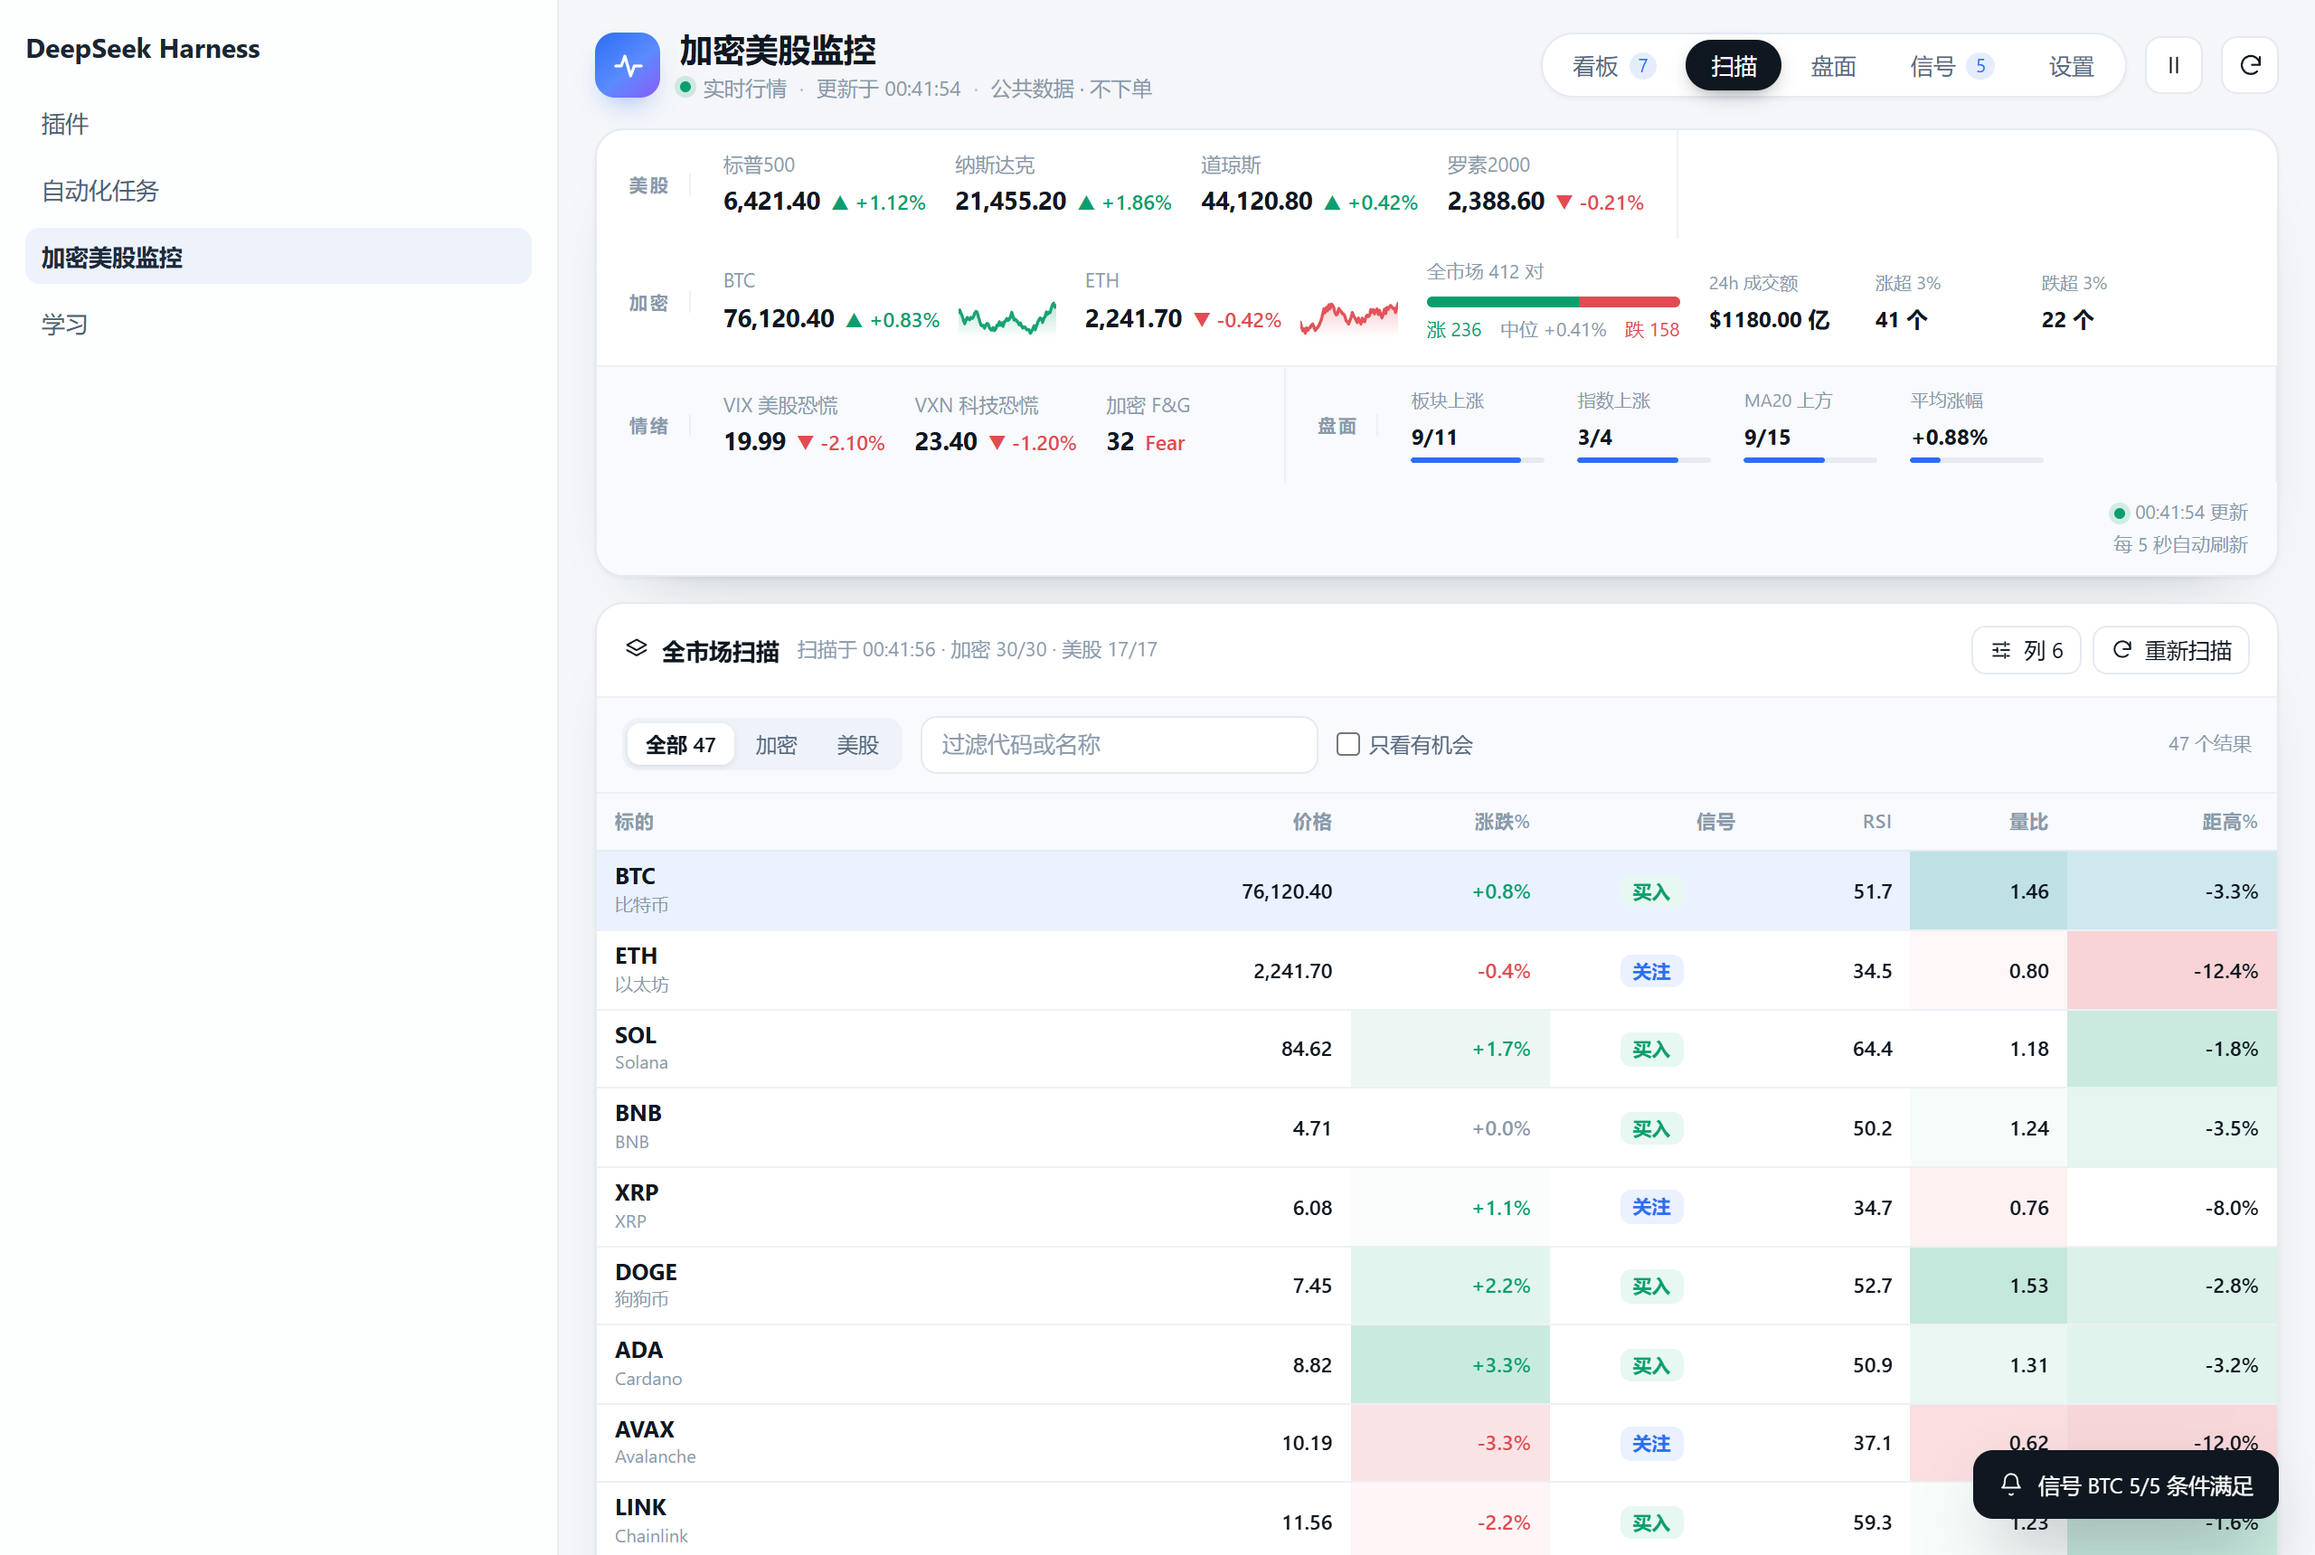
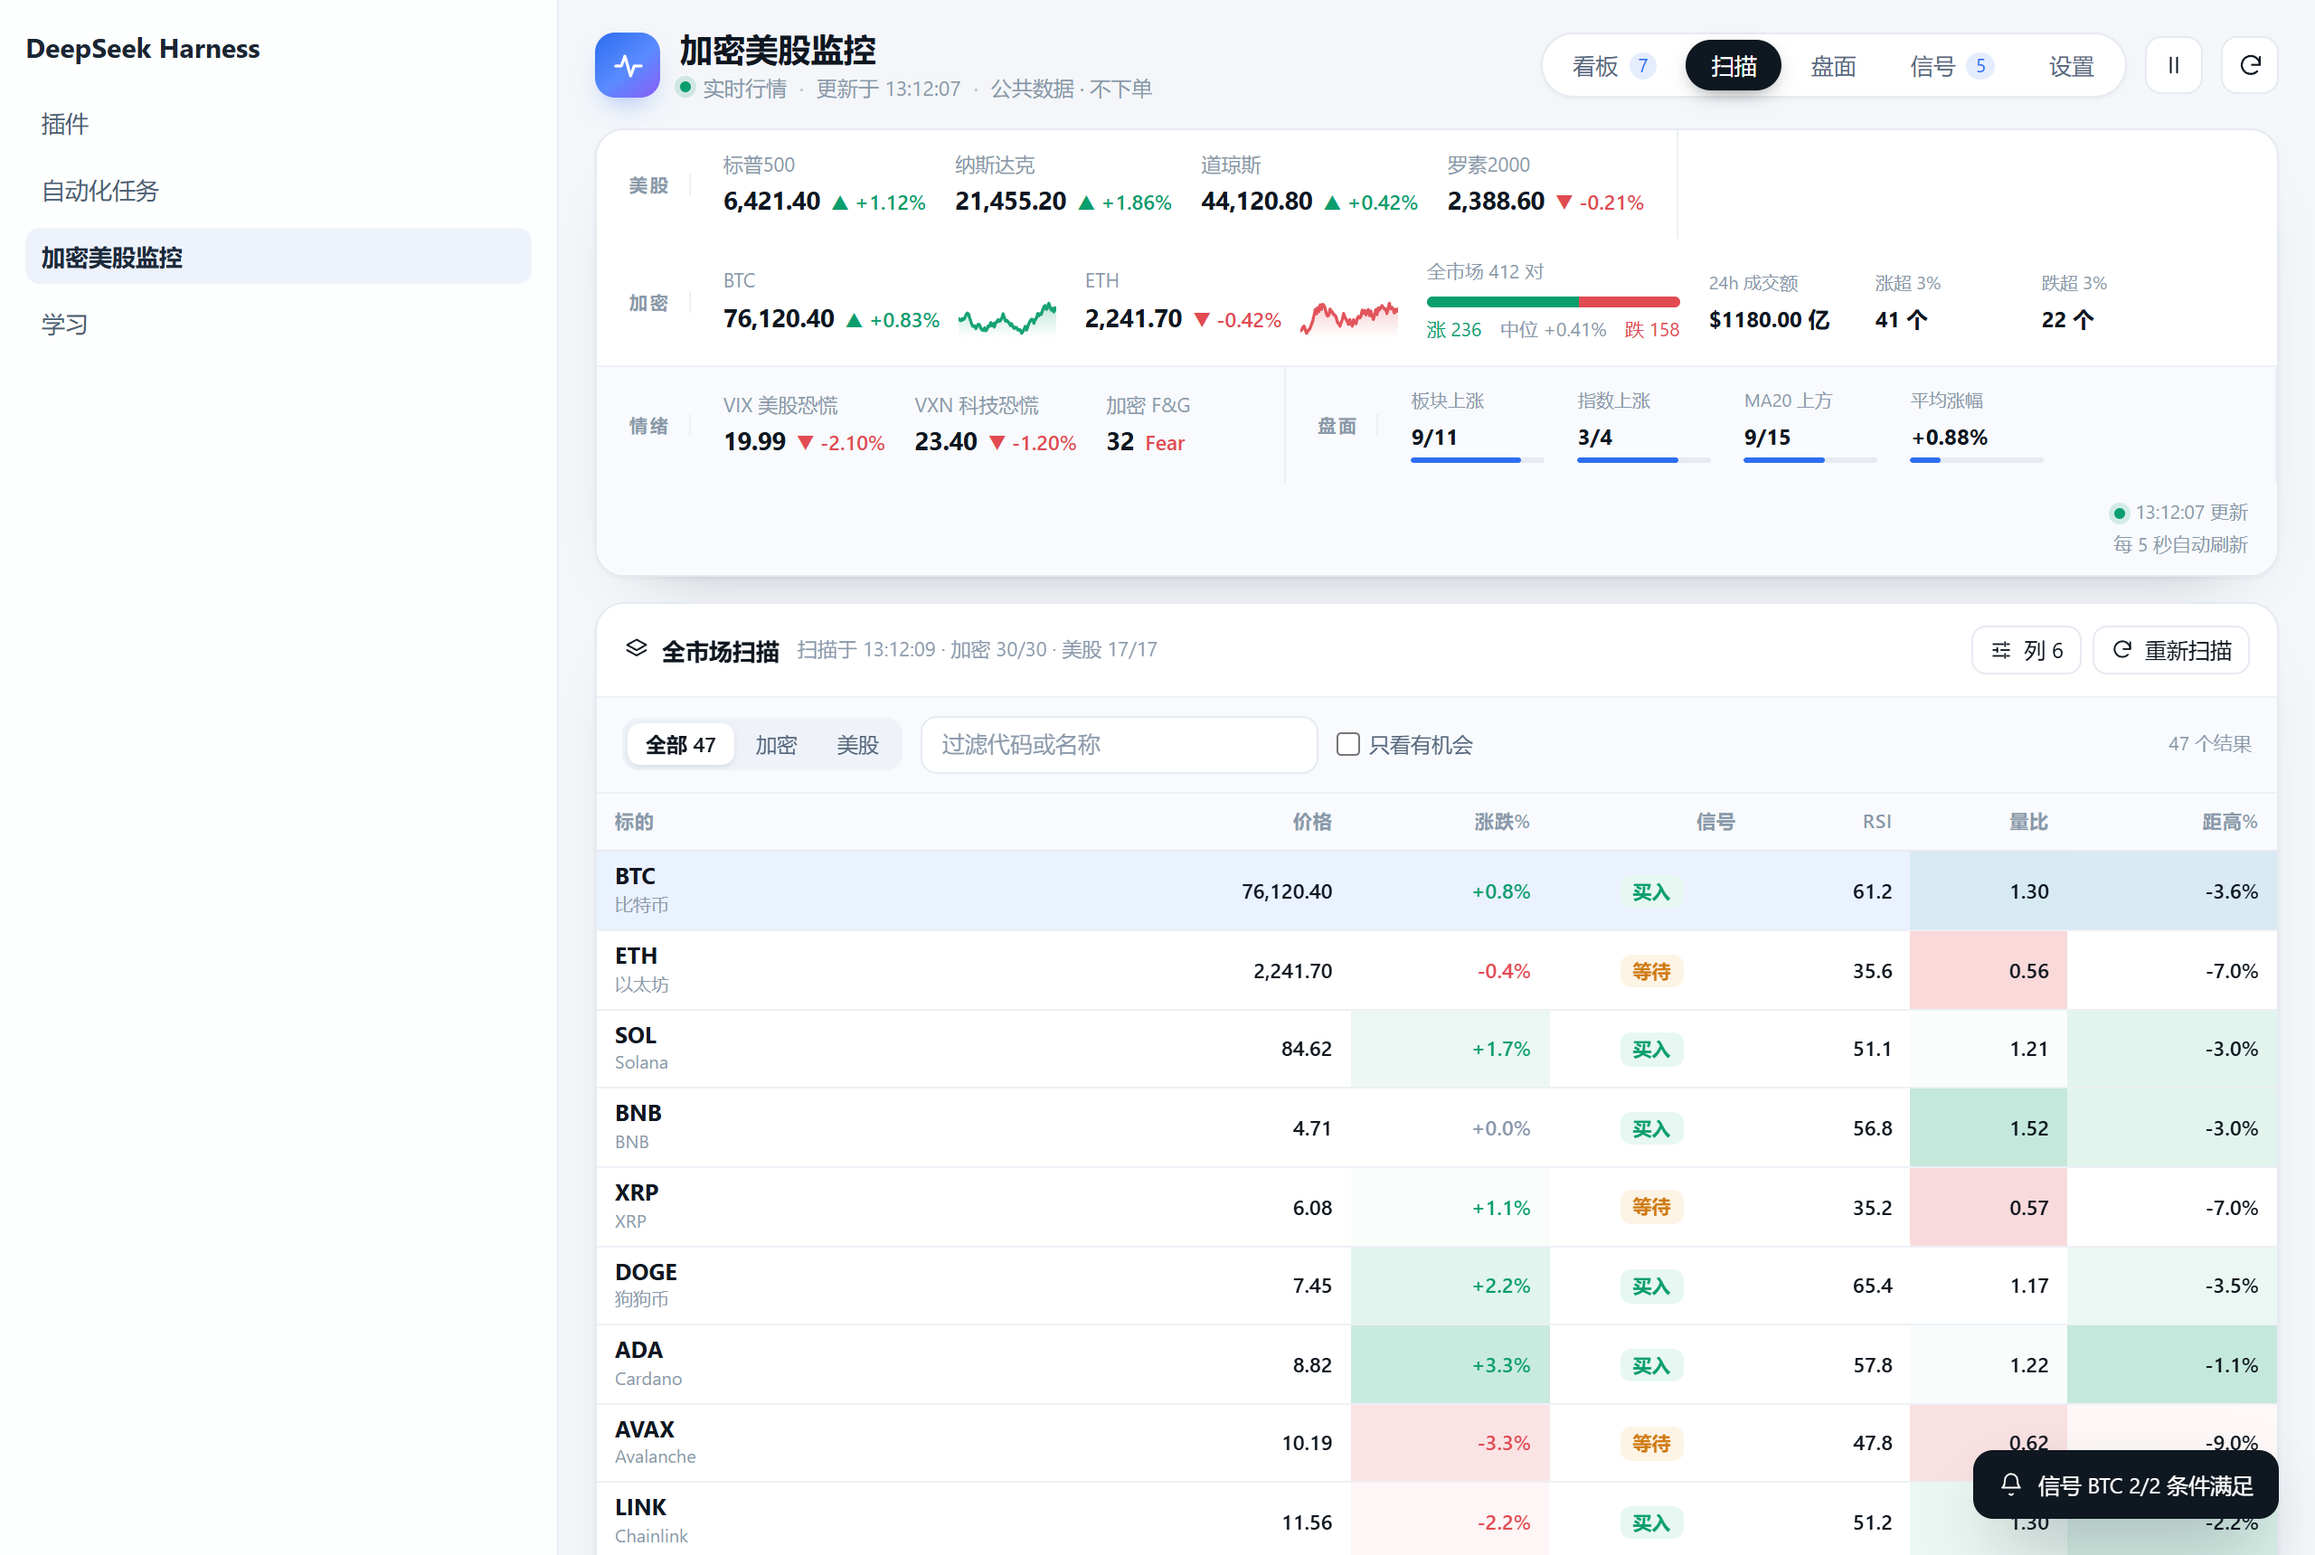
feat: 0.19.0 默认信号换成 RSI2 抄底（胜率 71.2%），新增 rsi2/ma200 指标与离场规则提示

diff --git a/lib/client.js b/lib/client.js
@@ -16,6 +16,7 @@ window.__ModuleLoader__.load({
 		const SETTINGS_KEY = "dsh.monitor.settings.v2";
 		const LEGACY_SETTINGS_KEY = "dsh.binance-bitget.settings.v1";
 		const PRESETS_KEY = "dsh.monitor.presets.v2";
+		const PRESET_DEFAULT_KEY = "dsh.monitor.presetDefault.v1";
 		const LEGACY_PRESETS_KEY = "dsh.binance-bitget.presets.v1";
 		const ALERTS_KEY = "dsh.monitor.alerts.v2";
 		const LEGACY_ALERTS_KEY = "dsh.binance-bitget.alerts.v1";
@@ -100,6 +101,11 @@ window.__ModuleLoader__.load({
 		};
 		const PRESET_BUILTINS = [
 			{
+				id: "reversion", name: "RSI2 抄底", base: "reversion", desc: "RSI(2) 超卖 + 长期趋势向上，胜率优先",
+				params: { maFast: 5, maSlow: 20, maLong: 50, rsiPeriod: 14, macd: "12,26,9", boll: "20,2", atrPeriod: 14, adxPeriod: 14, breakoutDays: 20, volumePeriod: 20, threshold: 0.2, style: "meanrev" },
+				thresholds: Object.assign({}, DEFAULT_THRESHOLDS, { rsi2Max: 10 })
+			},
+			{
 				id: "balanced", name: "综合", base: "balanced", desc: "趋势 + 动量 + 区间综合判断",
 				params: { maFast: 5, maSlow: 20, maLong: 50, rsiPeriod: 14, macd: "12,26,9", boll: "20,2", atrPeriod: 14, adxPeriod: 14, breakoutDays: 20, volumePeriod: 20, threshold: 0.2, style: "balanced" },
 				thresholds: DEFAULT_THRESHOLDS
@@ -141,7 +147,7 @@ window.__ModuleLoader__.load({
 			maFast: 5, maSlow: 20, maLong: 50,
 			rsiPeriod: 14, macd: "12,26,9", boll: "20,2",
 			atrPeriod: 14, adxPeriod: 14, breakoutDays: 20, volumePeriod: 20,
-			threshold: 0.2, style: "balanced", presetId: "balanced",
+			threshold: 0.2, style: "balanced", presetId: "reversion",
 			showSignals: true, showMarket: true, showAlerts: true,
 			notifyDesktop: false, onlyOpps: false, sort: "default"
 		};
@@ -407,7 +413,15 @@ window.__ModuleLoader__.load({
 		}
 
 		function loadSettings() {
-			return normalizeSettings(readJson(SETTINGS_KEY) || readJson(LEGACY_SETTINGS_KEY));
+			const next = normalizeSettings(readJson(SETTINGS_KEY) || readJson(LEGACY_SETTINGS_KEY));
+			// 0.19: the reversion preset becomes the default. Existing users keep
+			// every other preference; only the preset choice is migrated once.
+			if (!readJson(PRESET_DEFAULT_KEY)) {
+				writeJson(PRESET_DEFAULT_KEY, true);
+				next.presetId = "reversion";
+				writeJson(SETTINGS_KEY, next);
+			}
+			return next;
 		}
 
 		function taQuery(settings) {
@@ -490,6 +504,10 @@ window.__ModuleLoader__.load({
 				pushCheck(checks, "已脱离 60 日低点", ta && isNum(ta.distanceLow60Pct) && Number(ta.distanceLow60Pct) >= 1, ta && isNum(ta.distanceLow60Pct) ? Number(ta.distanceLow60Pct).toFixed(1) + "%" : null);
 				pushCheck(checks, "MACD 柱改善", isNum(hist) && isNum(prevHist) ? Number(hist) > Number(prevHist) : false, isNum(hist) && isNum(prevHist) ? formatPrice(hist) : null);
 				pushCheck(checks, "K 线止跌形态", candleOk, ta && ta.candle ? ta.candle : "");
+			} else if (base === "reversion") {
+				const rsi2Max = isNum(th.rsi2Max) ? Number(th.rsi2Max) : 10;
+				pushCheck(checks, "RSI(2) ≤ " + rsi2Max, ta && isNum(ta.rsi2) && Number(ta.rsi2) <= rsi2Max, ta && isNum(ta.rsi2) ? Number(ta.rsi2).toFixed(1) : null);
+				pushCheck(checks, "价格 > MA200", ta && isNum(ta.ma200) && isNum(ta.price) && Number(ta.price) >= Number(ta.ma200), ta && isNum(ta.ma200) ? formatPrice(ta.ma200) : "数据不足");
 			} else {
 				pushCheck(checks, "趋势多头", trendBull, ta && ta.trend ? ta.trend.label : "--");
 				pushCheck(checks, "价格 > 慢线", aboveSlow, ta && isNum(ta.maSlow) ? formatPrice(ta.maSlow) : null);
@@ -899,6 +917,7 @@ window.__ModuleLoader__.load({
 			".mn-root[data-theme=dark] .mn-table thead th{background:#18222e}",
 			".mn-root[data-theme=dark] .mn-table tbody tr{background:var(--mn-card)}",
 			".mn-scan-warn{display:flex;align-items:center;gap:6px;margin:0 15px 10px;padding:6px 10px;border-radius:8px;background:var(--mn-warn-soft);color:#a05f0c;font-size:11px}",
+			".mn-exit-rule{display:flex;align-items:center;gap:6px;margin:2px 0 8px;padding:7px 10px;border-radius:8px;background:var(--mn-card-2);color:var(--mn-fg-2);font-size:11.5px;line-height:1.4}",
 		].join("\n");
 
 
@@ -1477,6 +1496,8 @@ window.__ModuleLoader__.load({
 				const trendLabel = ta && ta.trend ? ta.trend.label : "--";
 				const maState = ta && ta.maAlignment === "bull" ? "多头排列" : ta && ta.maAlignment === "bear" ? "空头排列" : "均线交织";
 				const indicators = [];
+				if (isNum(ta && ta.rsi2)) indicators.push(["RSI(2)", formatNum(ta.rsi2, 1)]);
+				if (isNum(ta && ta.ma200)) indicators.push(["MA200", formatPrice(ta.ma200)]);
 				if (isNum(ta && ta.kdj)) indicators.push(["KDJ", formatNum(ta.kdj.k, 0) + " / " + formatNum(ta.kdj.d, 0) + " / " + formatNum(ta.kdj.j, 0)]);
 				if (isNum(ta && ta.boll && ta.boll.percentB)) indicators.push(["布林 %B", formatNum(ta.boll.percentB, 2)]);
 				if (isNum(ta && ta.boll && ta.boll.bandwidthPercentile)) indicators.push(["布林带宽分位", formatNum(ta.boll.bandwidthPercentile, 0) + "%"]);
@@ -1580,6 +1601,11 @@ window.__ModuleLoader__.load({
 											h(Chip, { tone: signalTone(analysis.tone) }, analysis.label)),
 										h("span", { className: "mn-strategy-desc" }, analysis.preset.desc || PRESET_BASE_LABELS[analysis.preset.base] || ""))),
 								h("div", { className: "mn-checks" }, analysis.checks.map((check, index) => h(CheckRow, { key: index, check: check }))),
+								analysis.preset.base === "reversion"
+									? h("div", { className: "mn-exit-rule" },
+										h(Icon, { name: "target", size: 13 }),
+										"离场：收盘价回到 MA10 上方，或持有满 15 根 K 线（回测平均持有 6.9 根）")
+									: null,
 								h("div", { className: "mn-verdict", "data-tone": analysis.tone },
 									h(Icon, { name: analysis.tone === "buy" ? "check" : "warn", size: 13 }),
 									analysis.verdict),

diff --git a/lib/index.js b/lib/index.js
@@ -26,6 +26,8 @@ const MAX_TREND_SYMBOLS = 30;
 const MAX_QUERY_LENGTH = 24;
 const MIN_BARS = 61;
 const MAX_BARS = 300;
+// MA200 needs 200 closes; request a small buffer so the reversion preset has it.
+const MA200_BARS = 210;
 const DEFAULT_SEARCH_LIMIT = 8;
 const MAX_SEARCH_LIMIT = 12;
 const DEFAULT_SYMBOLS = ["BTCUSDT", "ETHUSDT", "SOLUSDT"];
@@ -673,13 +675,15 @@ function barsLimit(config) {
 		config.atrPeriod + 10,
 		config.adxPeriod * 2 + 10,
 		config.breakoutDays + 10,
+		MA200_BARS,
 		MIN_BARS
 	);
 	return clamp(Math.ceil(needed), MIN_BARS, MAX_BARS);
 }
 
 function chartRange(config) {
-	return Math.max(config.maSlow, config.bollPeriod) > 120 ? "1y" : "6mo";
+	// MA200 based presets need a full year of daily bars.
+	return "1y";
 }
 
 function sma(values, period) {
@@ -716,6 +720,8 @@ function buildTechnical(bars, config, livePrice) {
 		priceVsMaLongPct: round(indicators.priceVsMaLongPct, 2),
 		maAlignment: indicators.maAlignment ?? null,
 		rsi: round(indicators.rsi, 2),
+		rsi2: round(indicators.rsi2, 1),
+		ma200: roundPrice(indicators.ma200),
 		kdj: kdj ? { k: round(kdj.k, 1), d: round(kdj.d, 1), j: round(kdj.j, 1) } : null,
 		cci: round(indicators.cci, 1),
 		williamsR: round(indicators.williamsR, 1),
@@ -1600,6 +1606,8 @@ function scanTa(ta) {
 		priceVsMaLongPct: ta.priceVsMaLongPct,
 		maAlignment: ta.maAlignment,
 		rsi: ta.rsi,
+		rsi2: ta.rsi2,
+		ma200: ta.ma200,
 		kdj: ta.kdj,
 		adx: ta.adx,
 		macd: ta.macd,

diff --git a/lib/indicators.js b/lib/indicators.js
@@ -487,6 +487,11 @@ export function computeIndicators(input = {}) {
 	const rsiValues = rsiSeries(closes, config.rsiPeriod);
 	const rsi = rsiValues[bars - 1];
 	const rsiPrev = rsiValues[bars - 2];
+	// 0.19: fixed-period extras for the high-win-rate reversion preset. RSI(2)
+	// and MA200 stay independent of the user's configurable periods.
+	const rsi2Values = rsiSeries(closes, 2);
+	const rsi2 = rsi2Values[bars - 1];
+	const ma200 = smaAt(closes, 200, bars);
 	const macd = macdSnapshot(closes, config);
 	const bollWindow = closes.slice(bars - config.bollPeriod);
 	const bollMiddle = mean(bollWindow);
@@ -542,7 +547,7 @@ export function computeIndicators(input = {}) {
 	const divergence = rsiDivergence(highSeries, lowSeries, closes, rsiValues);
 	const candle = candlePattern(highSeries, lowSeries, closes);
 	return {
-		price, bars, maFast, maSlow, maFastPrev, maSlowPrev, rsi, rsiPrev,
+		price, bars, maFast, maSlow, maFastPrev, maSlowPrev, rsi, rsiPrev, rsi2, ma200,
 		macd: { line: macd.line, signal: macd.signal, hist: macd.hist, prevHist: macd.prevHist },
 		boll: { upper: bollUpper, middle: bollMiddle, lower: bollLower, percentB },
 		atr, atrPct, change5dPct, change7dPct, change20dPct,

diff --git a/README.md b/README.md
@@ -4,6 +4,34 @@
 
 > 界面截图见 `docs/panel.png`、`docs/scan.png`、`docs/table.png`、`docs/mood.png`（重启 DSH 后在左侧图标列打开）。
 
+## 0.19 默认信号：RSI2 抄底
+
+默认预设从「综合」换成「RSI2 抄底」，规则只有两条：
+
+- **买入**：RSI(2) ≤ 10，且收盘价在 MA200 之上（只在长期上升趋势里抄短期的超卖）。
+- **离场**：收盘价回到 MA10 上方，或最长持有 15 根 K 线（回测平均持有 6.9 根）。
+
+十年、14 个标的（SPY/QQQ/DIA/IWM + AAPL/MSFT/NVDA/TSLA/AMZN/META/GOOGL/AMD + BTC/ETH）的回测：
+
+| 指标 | 全部样本 | 2022 年后（样本外） |
+| --- | --- | --- |
+| 笔数 | 910 | 242 |
+| 胜率 | 71.2% | 72.0% |
+| 每笔期望 | +0.68% | +0.90% |
+| 盈亏比 | 1.46 | 1.72 |
+| 平均持有 | 6.9 根 | 6.8 根 |
+| 场内时间 | 18.4% | — |
+| 年化（等权 14 份） | 3.85% | — |
+
+同一套参数在 RSI(2) 阈值 5–12、离场 MA5/10/20、持有 5–15 根的 72 组组合里都成立（胜率 67–74%），是平台区而不是单点拟合。
+
+需要知道的两件事：
+
+1. 高胜率来自「小赢大亏」结构：平均盈利 +3.1%、平均亏损 -5.2%，单笔最差 -54%（未设硬止损）；胜率再高也要靠仓位和纪律控制回撤，实测等权组合最大回撤 -17.3%。
+2. 场内时间只有 18%，所以绝对收益不高（年化约 3.9%）。它适合当「现金替代 + 择时增强」，不是满仓工具；要收益就得加杠杆或叠加别的信号。
+
+想切回原来的综合信号：设置页把预设改成「综合」即可，两套预设都保留。
+
 ## 0.18 界面
 
 - **顶部大盘行情条**：第一行是美股四大指数（标普500、纳斯达克、道琼斯、罗素2000）与加密（BTC、ETH 含 60 日迷你走势、全市场宽度条、24h 成交额、涨超/跌超 3% 数量）；第二行是 VIX、VXN、加密 F&G 与美股盘面（板块上涨、指数上涨、MA20 上方、平均涨幅），右侧固定显示更新时间和刷新间隔。涨跌带 ▲▼ 箭头，颜色与数值方向一致。
@@ -26,7 +54,7 @@
 2. 通过 DSH 的插件管理或配置，以本地 `link` 方式加载该目录。
 3. 重启 DSH Desktop，左侧图标列（插件 / 浏览器 / 学习那一列）会出现「加密美股监控」图标；点击后在中央面板打开。
 
-当前版本为 **0.18.0**。界面已完整重构（顶部大盘行情条 + 看板/扫描/盘面/信号/设置五个页签），重启 DSH 后即可看到。
+当前版本为 **0.19.0**。界面已完整重构（顶部大盘行情条 + 看板/扫描/盘面/信号/设置五个页签），默认信号换成胜率优先的「RSI2 抄底」，重启 DSH 后即可看到。
 
 包名与插件 ID：`dsh-crypto-us-stock-monitor`。`package.json` 中的 `dsh.bundle.patch` 指向 `cordis.patch.yml`。
 

diff --git a/AGENTS.md b/AGENTS.md
@@ -24,6 +24,7 @@ curl -s "$DSH_BASE_URL/plugins/dsh-crypto-us-stock-monitor/api/search?q=nvda"
 # 返回 { closes, times }，times 为毫秒时间戳
 curl -s "$DSH_BASE_URL/plugins/dsh-crypto-us-stock-monitor/api/series?symbols=BTCUSDT&stocks=NVDA&limit=80"
 
+# ta 里除常规字段外还带 rsi2（2 周期 RSI）与 ma200（200 日均线），默认预设「RSI2 抄底」依赖这两个字段
 # 全市场扫描（加密按成交额取前 120 对，美股 84 只活跃标的；结果缓存 5 分钟）
 curl -s "$DSH_BASE_URL/plugins/dsh-crypto-us-stock-monitor/api/scan?crypto=120&stocks=60"
 ```
